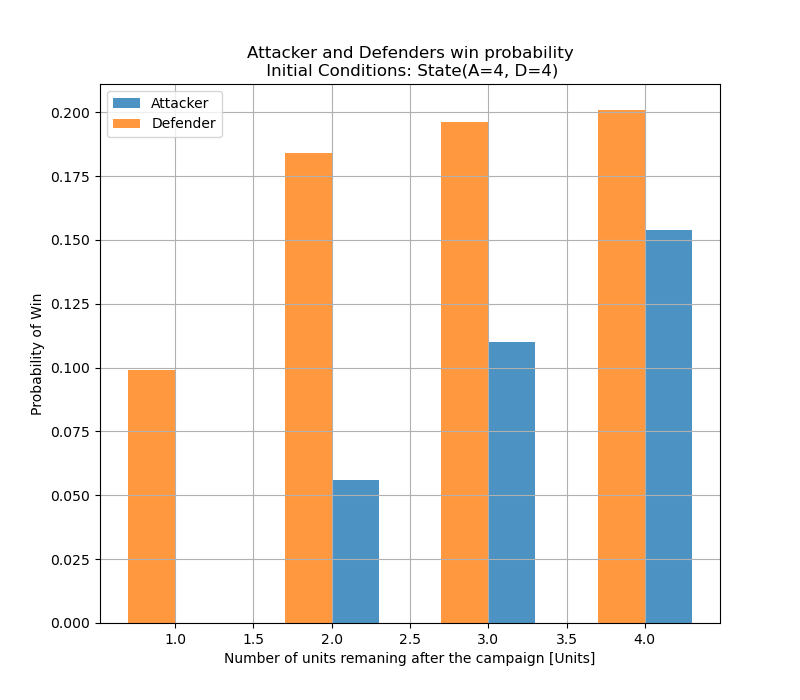
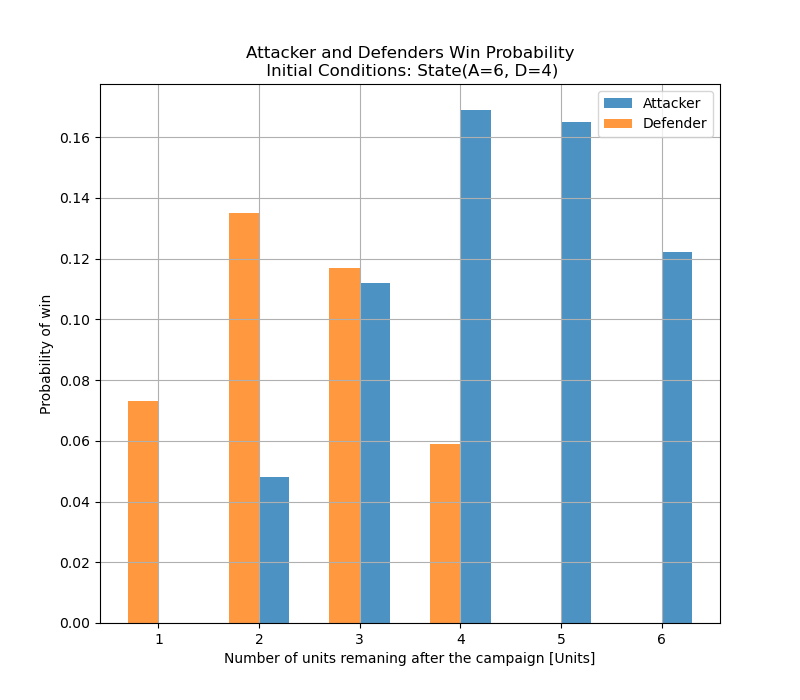
Implementation of the attacker delta simulation. Refactoring of multiple methods. Logger added.

diff --git a/src/simulation/mc.py b/src/simulation/mc.py
@@ -1,11 +1,20 @@
-from typing import List, Iterable, Tuple, Union
-from collections import Counter
 import numpy as np
+import logging
+from collections import Counter
+from dataclasses import dataclass
 from src.game.play import State, RiskGame
 
+# initiliaze logger 
+logger = logging.getLogger(__name__)
+
+@dataclass(frozen=True)
+class Results:
+    p_win: float # Winning probability
+    p_win_low: float # Winning probability low boundary (+3sigma)
+    p_win_high: float # Winning probability high boundary (-3sigma)
 
 class MCSimulation(object):
-    def __init__(self, state, riskgame: RiskGame, runs: int=1) -> None:
+    def __init__(self, state: State, riskgame: RiskGame, runs: int=1) -> None:
         self.state = state
         self.riskgame = riskgame
         self.runs = runs
@@ -15,7 +24,7 @@ class MCSimulation(object):
         Simulate a single attack campaign with random rolls and returs the final state.
 
         Args:
-            state (_type_): _description_
+            state (_type_): _description
             riskgame (RiskGame): _description_
 
         Returns:
@@ -31,7 +40,7 @@ class MCSimulation(object):
             simout_state = self.riskgame.update(simout_state, dead)
         return simout_state
 
-    def simulate_multiple_attack(self, normalization=True) -> Union[Counter, List]:
+    def simulate_multiple_attack(self, normalization: bool=True) -> Counter | list:
         prob_distribution = [] 
         for _ in range(self.runs):
             prob_distribution.append(self.simulate_single_attack())
@@ -41,8 +50,41 @@ class MCSimulation(object):
         
         return prob_distribution
 
-    def attacker_win_prob(self, prob_distribution: Counter) -> Tuple:
+    def attacker_win_prob(self, prob_distribution: Counter) -> Results:
         p_win = np.round(sum(prob_distribution[s] for s in prob_distribution if not s.D), 5)
         # using the expected value of the binomial variable it is possible to calculate the standard deviation
-        expected_value = np.round(np.sqrt(p_win*(1-p_win)/self.runs), 5)
-        return (p_win, p_win-3*expected_value, p_win+3*expected_value)
+        expected_value = np.sqrt(p_win*(1-p_win)/self.runs)
+        return Results(np.round(p_win, 3), np.clip(np.round(p_win-3*expected_value, 3), 0, 1), np.clip(np.round(p_win+3*expected_value, 3), 0, 1))
+
+@dataclass(frozen=True)
+class AttackerDeltaSimulation:
+    delta: int
+    n_defenders: list[int]
+    p_win_history: list[float] # Winning probability
+    p_win_low_history: list[float] # Winning probability low boundary (+3sigma)
+    p_win_high_history: list[float] # Winning probability high boundary (-3sigma)
+
+
+
+def risk_delta_simulator(sim_delta: tuple, max_defenders: int, die: tuple=(1, 2, 3, 4, 5, 6), mc_runs: int = 1000) -> list:
+    simout_delta = []
+    for delta in sim_delta:
+        logger.info(f"-- Simulation delta: {delta:2}")
+        p_win = []
+        p_win_low = []
+        p_win_high = []
+
+        for n_defender in range(1, max_defenders+1):
+            n_attacker = max(2, n_defender+delta)
+            start = State(A=n_attacker, D=n_defender)
+            risk = RiskGame(state=start, die=die)
+            mcsim = MCSimulation(state=start, riskgame=risk, runs=mc_runs)
+            simout = mcsim.simulate_multiple_attack(normalization=True)
+            results = mcsim.attacker_win_prob(simout)
+            p_win.append(results.p_win)
+            p_win_low.append(results.p_win_low)
+            p_win_high.append(results.p_win_high)
+        
+        simout_delta.append(AttackerDeltaSimulation(delta, list(range(1, max_defenders+1)), p_win, p_win_low, p_win_high))
+    
+    return simout_delta

diff --git a/src/visualization/plots.py b/src/visualization/plots.py
@@ -1,14 +1,20 @@
 import numpy as np
 import pandas as pd
+import logging
 import matplotlib.pyplot as plt
 from collections import Counter
+
 from src.game.play import State
+from src.simulation.mc import AttackerDeltaSimulation
+
+# initiliaze logger 
+logger = logging.getLogger(__name__)
 
 # import style
-plt.style.library['seaborn-dark']
+plt.style.library['seaborn-v0_8-dark']
 
 
-def hist_probability(simout: Counter, state: State) -> None:
+def plot_hist_probability(simout: Counter, state: State, save_root: str="plots") -> None:
     records = []
     for ele in simout:
         entry = {
@@ -22,8 +28,6 @@ def hist_probability(simout: Counter, state: State) -> None:
     w_attacker = data[data["defender"]==0]
     w_defender = data[data["attacker"]==1]
 
-
-
     fig = plt.figure(figsize=(8, 7))
     ax = plt.bar(w_attacker["attacker"]+0.15, w_attacker["probability"], width=0.3, alpha=0.8, label="Attacker")
     ax = plt.bar(w_defender["defender"]-0.15, w_defender["probability"], width=0.3, alpha=0.8, label="Defender")
@@ -32,5 +36,19 @@ def hist_probability(simout: Counter, state: State) -> None:
     plt.xlabel('Number of units remaning after the campaign [Units]')
     plt.ylabel('Probability of win')
     plt.grid()
-    fig.savefig('plots/campain_units.png', dpi=fig.dpi)
-    #plt.show()
+    save_path = f"{save_root}/campain_units.png"
+    fig.savefig(save_path, dpi=fig.dpi)
+    logger.info(f"-- Plot saved at the following path: {save_path}")
+
+def plot_delta_sensitivity(simpout_delta: list[AttackerDeltaSimulation], save_root: str="plots"):
+    fig = plt.figure(figsize=(10, 7))
+    for sim in simpout_delta:
+        plt.plot(sim.n_defenders, sim.p_win_high_history, marker="o", label=f'delta={sim.delta:2}')
+        plt.title('Attacker with delta(±) units than the Defender')
+        plt.legend(loc='center left', bbox_to_anchor=(1, 0.5))
+        plt.xlabel('Number of units of the defender [Units]')
+        plt.ylabel('Probability of win of the attacker')
+        plt.grid()
+    save_path = f"{save_root}/risk_global_strategy.png"
+    fig.savefig(save_path, dpi=fig.dpi, bbox_inches="tight")
+    logger.info(f"-- Plot saved at the following path: {save_path}")

diff --git a/run_campaign.py b/run_campaign.py
@@ -1,0 +1,29 @@
+#!/usr/bin/env python
+# -*- coding: utf-8 -*-
+"""
+Main script to run the simulaion of Risk (board game) attack campaign 
+"""
+import logging
+from src.game.play import RiskGame, State
+from src.simulation.mc import MCSimulation
+from src.visualization.plots import plot_hist_probability
+
+# initiliaze logger 
+logging.basicConfig(level=logging.INFO, format='%(asctime)s %(levelname)s:%(message)s')
+logger = logging.getLogger(__name__)
+
+# Parameters
+# define the die 
+DIE  = (1, 2, 3, 4, 5, 6)
+
+if __name__ == "__main__":
+    start = State(A=6, D=4)
+    logger.info(f"Initial conditions: {start}")
+    risk = RiskGame(state=start, die=DIE)
+    logger.info("Run simulation...")
+    mcsim = MCSimulation(state=start, riskgame=risk, runs=1000)
+    simout = mcsim.simulate_multiple_attack(normalization=True)
+    plot_hist_probability(simout, start)
+    results = mcsim.attacker_win_prob(simout)
+    logger.info(f"Aggregated probability of win is: {results.p_win}")
+    logger.info(f"Uncertainty range (±3sigma): {results.p_win_low, results.p_win_high}")

diff --git a/risk_strategy.py b/risk_strategy.py
@@ -1,0 +1,23 @@
+#!/usr/bin/env python
+# -*- coding: utf-8 -*-
+"""
+Script to explore the best global strategy to play Risk (board game). 
+"""
+import logging
+from src.simulation.mc import risk_delta_simulator
+from src.visualization.plots import plot_delta_sensitivity
+
+# initiliaze logger 
+logging.basicConfig(level=logging.INFO, format='%(asctime)s %(levelname)s:%(message)s')
+logger = logging.getLogger(__name__)
+
+# Parameters
+# define the die 
+DIE  = (1, 2, 3, 4, 5, 6) # define the die 
+RANGE_DEFENDERS = 65 # max number of defenders to be condidered
+DELTA = (10, 8, 5, 2, 1, 0, -1, -2, -5, -8, -10) # numerical delta (+/-) of the attacker
+
+if __name__ == "__main__":
+    logger.info("Running attacker delta simulation. Hold on...")
+    simout = risk_delta_simulator(sim_delta=DELTA, max_defenders=RANGE_DEFENDERS, die=DIE, mc_runs=1000)
+    plot_delta_sensitivity(simout)

diff --git a/src/game/play.py b/src/game/play.py
@@ -1,13 +1,13 @@
-from typing import List, Iterable, Tuple
-from collections import Counter
-from functools import lru_cache
-from dataclasses import dataclass
 import random
+from collections import Counter
+from dataclasses import dataclass
+
 
 @dataclass(frozen=True)
 class State:
     A: int # Number of attackers
     D: int # Number of defenders
+
 
 @dataclass(frozen=True)
 class UnitLosses:
@@ -17,12 +17,13 @@ class UnitLosses:
     A: int
     D: int
 
+
 class RiskGame(object):
     def __init__(self, state: State, die) -> None:
         self.state = state
         self.die = die
 
-    def _random_roll(self, n: int) -> List[int]:
+    def _random_roll(self, n: int) -> list[int]:
         """
         Roll n dice with a customizeble dimention.
 
